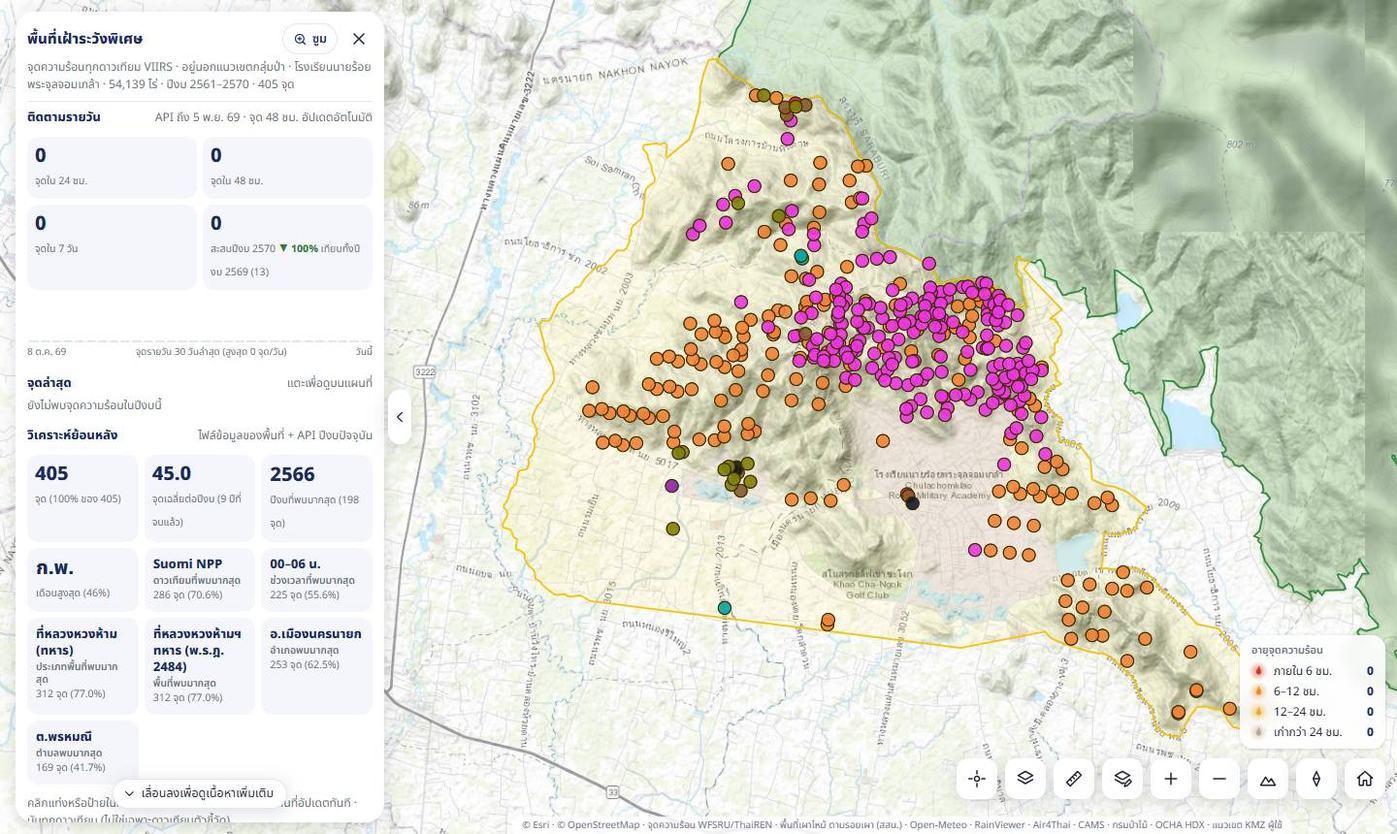
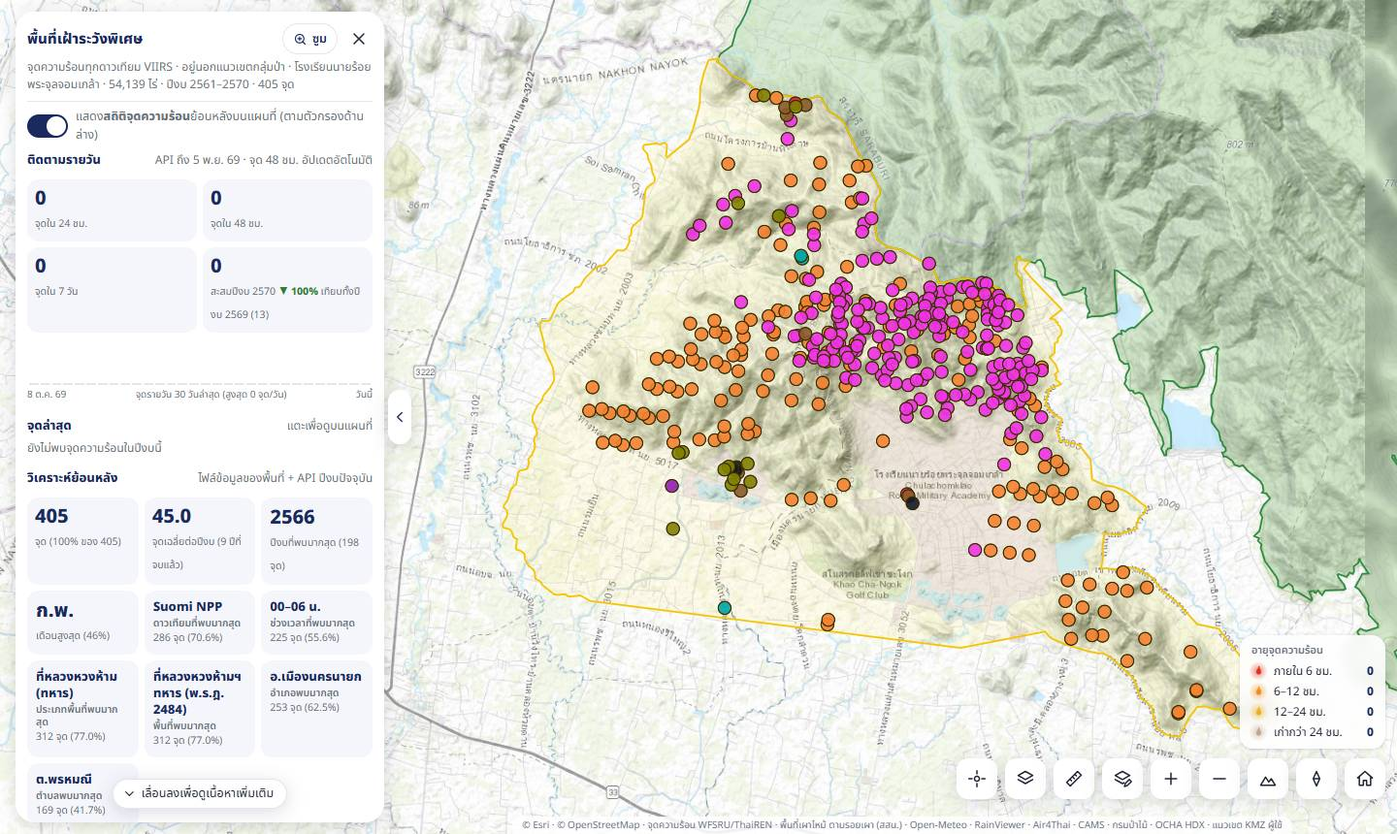
การ์ดพื้นที่เฝ้าระวังพิเศษ: สวิตช์แสดงสถิติจุดความร้อนย้อนหลังบนแผนที่ (ค่าเริ่มต้นปิด) + คู่มือ/ภาพ

diff --git a/manual/index.html b/manual/index.html
@@ -674,9 +674,10 @@ mark{background:#ffe58a;border-radius:3px}
 <div class="box note"><b>วิธีคิด:</b> วันที่ใช้ช่อง วัน/เดือน/ปี · พิกัด UTM ไม่มีโซนในต้นฉบับ — E มากกว่า 500,000 = โซน 47 นอกนั้นโซน 48 · พิกัดที่ตัวเลขขาด/เกิน 1 หลัก (12 ครั้ง) ลองตัด/แทรกตัวเลขทีละหลัก แก้ให้เฉพาะเมื่อผลตกในตำบลที่รายงาน (5 ครั้ง) ที่เหลือ 7 ครั้งนับในสถิติแต่ไม่แสดงบนแผนที่ · พื้นที่อนุรักษ์หาจากพิกัด สถานีฯ ใช้ช่อง "ดำเนินการโดย" สบอ. ตามจังหวัด · เวลาเข้าดับ/เสร็จสิ้นใช้เฉพาะเวลา ตัดค่าที่เข้าดับก่อนรับแจ้งหรือนานเกิน 12 ชม. (เสร็จหลังเที่ยงคืนนับข้ามวัน) · <b>พบจุดความร้อน</b> = มีจุด Suomi NPP ของกรมอุทยานฯ ห่างไม่เกิน 1 กม. ภายใน ±1 วันของวันรับแจ้ง (พบราว 1 ใน 4 ของครั้งที่มีพิกัด — ไฟเล็กหรือดับก่อนดาวเทียมผ่านมักไม่ถูกตรวจพบ)</div>
 </div></div>
 <h3 id="stats-wa">การ์ดพื้นที่เฝ้าระวังพิเศษ</h3>
-<p>เปิดจากปุ่มเมนูหลัก <span class="btnl"><svg class="i" viewBox="0 0 24 24"><path d="M12 3l8 3.5v5.5c0 4.5-3.5 7.5-8 9-4.5-1.5-8-4.5-8-9V6.5z" style="fill:#ffd000;stroke:#6b5200"/><circle cx="12" cy="11.5" r="2.6" style="fill:#fff;stroke:#6b5200"/></svg> พื้นที่เฝ้าระวังพิเศษ</span> (แถวที่ 3) — ใช้ช่องเดียวกับการ์ดสถิติแต่ไม่มีแถบแท็บ — ติดตามรายวันและวิเคราะห์จุดความร้อนย้อนหลังของ<b>โรงเรียนนายร้อยพระจุลจอมเกล้า</b> (พื้นที่นอกแนวเขตกลุ่มป่า) เปิดได้จากปุ่มเมนูหลัก ป้ายเหลืองในการ์ดจุดความร้อน หรือลิงก์ในแผงชั้นข้อมูล (กดปุ่มเมนูซ้ำ = ปิด) · เปิดการ์ดนี้แล้วแผนที่แสดงจุดย้อนหลังของพื้นที่แทนจุดของกลุ่มป่า</p>
+<p>เปิดจากปุ่มเมนูหลัก <span class="btnl"><svg class="i" viewBox="0 0 24 24"><path d="M12 3l8 3.5v5.5c0 4.5-3.5 7.5-8 9-4.5-1.5-8-4.5-8-9V6.5z" style="fill:#ffd000;stroke:#6b5200"/><circle cx="12" cy="11.5" r="2.6" style="fill:#fff;stroke:#6b5200"/></svg> พื้นที่เฝ้าระวังพิเศษ</span> (แถวที่ 3) — ใช้ช่องเดียวกับการ์ดสถิติแต่ไม่มีแถบแท็บ — ติดตามรายวันและวิเคราะห์จุดความร้อนย้อนหลังของ<b>โรงเรียนนายร้อยพระจุลจอมเกล้า</b> (พื้นที่นอกแนวเขตกลุ่มป่า) เปิดได้จากปุ่มเมนูหลัก ป้ายเหลืองในการ์ดจุดความร้อน หรือลิงก์ในแผงชั้นข้อมูล (กดปุ่มเมนูซ้ำ = ปิด)เปิดการ์ดนี้แล้วแผนที่ซูมไปที่พื้นที่ (จุดย้อนหลังแสดงเมื่อเปิดสวิตช์ในการ์ด)</p>
 <figure><img src="img/stats_wa.jpg" width="1440" height="860" alt="การ์ดพื้นที่เฝ้าระวังพิเศษ" loading="lazy"><figcaption>การ์ดพื้นที่เฝ้าระวังพิเศษ: ติดตามรายวัน การ์ดตัวเลข และจุดย้อนหลังในแนวเขตพื้นที่</figcaption></figure>
 <ul>
+ <li><b>สวิตช์ "แสดงสถิติจุดความร้อนย้อนหลังบนแผนที่"</b> บนสุดของการ์ด — <b>ค่าเริ่มต้นปิด</b> (แผนที่แสดงแค่แนวเขตและจุด 48 ชม.) เปิดแล้วจุดย้อนหลังตามตัวกรองขึ้นบนแผนที่ในรูปแบบที่เลือกใน "แสดงบนแผนที่"</li>
  <li><b>ติดตามรายวัน</b> — จุดใน 24 ชม. · 48 ชม. · 7 วัน · สะสมปีงบนี้ ▲▼% เทียบทั้งปีงบก่อน · แท่งจำนวนจุดรายวัน 30 วันล่าสุด · <b>จุดล่าสุด</b> 6 จุด (แตะ = ซูม/เปิดรายละเอียด; ป้าย "48 ชม." = จุดสด) · บรรทัดบนบอกวันที่ข้อมูลสะสมจาก API ล่าสุด</li>
  <li><b>วิเคราะห์ย้อนหลัง</b> รูปแบบเดียวกับแท็บจุดความร้อน: การ์ดตัวเลข (จำนวนจุด เฉลี่ยต่อปีงบที่จบแล้ว ปีงบและเดือนที่พบมาก ดาวเทียม ช่วงเวลา ประเภทพื้นที่ พื้นที่ อำเภอ ตำบลที่พบมาก — คลิกเพื่อกรอง) · กราฟปีงบ (เส้นประ = เฉลี่ย) · เดือน · ดาวเทียม · ช่วงเวลาที่ตรวจพบ · ประเภทพื้นที่ (ที่หลวงหวงห้าม (ทหาร) / ป่าชุมชน / อุทยานแห่งชาติ / พื้นที่อื่น) · ชื่อพื้นที่ · ในหรือนอกพื้นที่ป่า · อำเภอ · ตำบล · แหล่งข้อมูล</li>
  <li><b>แสดงบนแผนที่</b> — จุด / Cluster / ความหนาแน่น สีตามปีงบ / ดาวเทียม / ประเภทพื้นที่ (ขอบน้ำตาล) · ปุ่ม <span class="btnl">ซูม</span> / <span class="btnl">รีเซ็ต</span> ทำงานกับการ์ดนี้</li>

diff --git a/index.html b/index.html
@@ -564,6 +564,7 @@ hr.l{border:0;border-top:1px solid var(--line);margin:10px 0}
   </div>
   <div class="wa-only" id="wab">
   <select id="w-sel" hidden aria-label="เลือกพื้นที่เฝ้าระวัง"></select>
+  <div class="dmr"><button class="sw" id="w-sp" role="switch" aria-label="แสดงสถิติจุดความร้อนย้อนหลังบนแผนที่"></button><span>แสดง<b>สถิติจุดความร้อน</b>ย้อนหลังบนแผนที่ (ตามตัวกรองด้านล่าง)</span></div>
   <div class="hq" style="margin-top:6px"><b>ติดตามรายวัน</b><span class="sm" id="w-upd"></span></div>
   <div class="kp w2" id="w-lv"></div>
   <div id="w-d30"></div>
@@ -933,7 +934,7 @@ const areaHtml=g=>{let s='';if(g.cons)s+=`<b>${esc(g.cons.properties.name)}</b><
  return s||'<span class="sm">อยู่นอกพื้นที่อนุรักษ์และพื้นที่รับผิดชอบไฟป่าตามไฟล์แนวเขต</span><br>'};
 
 /* ---------- สถานะ + จำค่าที่ผู้ใช้เลือก ---------- */
-let S={base:'natural',img:'google',d3:false,hot:true,prov:false,cons:true,resp:false,stn:false,wpt:false,rgr:false,fbs:false,sats:{SNPP:true,NOAA20:true,NOAA21:true},xdy:true,wch:true,wst:false,demo:false,water:true,road:true,wind:false,pm:false,dry:false,wx:false,rad:false,wyl:false,wyo:'wind',wyop:60,hist:false,xt:false,burn:false,fuel:false,ftype:false,amp:false,tam:false,hcl:false,hgp:false,har:false,hcp:'7',rep:false,rpm:2,hcd:1,hcg:2,hcr:200};
+let S={base:'natural',img:'google',d3:false,hot:true,prov:false,cons:true,resp:false,stn:false,wpt:false,rgr:false,fbs:false,sats:{SNPP:true,NOAA20:true,NOAA21:true},xdy:true,wch:true,wst:false,wsp:false,demo:false,water:true,road:true,wind:false,pm:false,dry:false,wx:false,rad:false,wyl:false,wyo:'wind',wyop:60,hist:false,xt:false,burn:false,fuel:false,ftype:false,amp:false,tam:false,hcl:false,hgp:false,har:false,hcp:'7',rep:false,rpm:2,hcd:1,hcg:2,hcr:200};
 try{Object.assign(S,JSON.parse(localStorage.getItem('fm-v1')||'{}'))}catch(e){}S.demo=false;S.wst=false;if(S.base==='road')S.base='detail';
 const toast=(m,fn,ms)=>{const t=$('#toast');t.textContent=m;t.classList.add('show');t.classList.toggle('act',!!fn);t.onclick=fn?()=>{t.classList.remove('show','act');fn()}:null;
  clearTimeout(toast.t);toast.t=setTimeout(()=>t.classList.remove('show','act'),ms||2200)}; // fn = แตะป้ายแล้วทำ (ป้ายค้างนานขึ้น)
@@ -2876,7 +2877,7 @@ function setupWT(){if(!WAR.length)return;WFC=wFC();const bf=map.getLayer('hot-gl
  map.addLayer({id:'wlv-icon',type:'symbol',source:'wlv',layout:{visibility:'none','icon-image':['concat','f-',['get','g']],'icon-size':['interpolate',['linear'],['zoom'],6,.55,12,.9],'icon-allow-overlap':true},paint:{'icon-opacity':['match',['get','g'],'b',.6,1]}});
  LW()}
 function LW(){if(!WAR.length)return;const set=(id,b)=>map.getLayer(id)&&map.setLayoutProperty(id,'visibility',b?'visible':'none'),on=S.wch||S.wst;
- ['wch-f','wch-l'].forEach(id=>set(id,on));set('wt-h',S.wst&&WM.mode==='heat');set('wt-c',S.wst&&WM.mode==='pt');['wtc-cl','wtc-n','wtc-p'].forEach(id=>set(id,S.wst&&WM.mode==='cl'));
+ ['wch-f','wch-l'].forEach(id=>set(id,on));const sp=S.wst&&S.wsp;set('wt-h',sp&&WM.mode==='heat');set('wt-c',sp&&WM.mode==='pt');['wtc-cl','wtc-n','wtc-p'].forEach(id=>set(id,sp&&WM.mode==='cl'));/* จุดย้อนหลังแสดงเมื่อเปิดสวิตช์ในการ์ด (S.wsp ค่าเริ่มต้นปิด) */
  set('wlv-glow',S.hot&&on&&!S.d3);set('wlv-icon',S.hot&&on&&!S.d3);
  const b=document.getElementById('wchbox');if(b)b.hidden=!S.wch;wchInfo()}
 /* บรรทัดสรุปในแผงชั้นข้อมูล + ป้ายในการ์ดจุดความร้อน (ติดตามรายวัน) */
@@ -2911,6 +2912,7 @@ function wtPopup(r){if(!r)return;if(r.src===2&&r.h){MOVED=true;return openDetail
 $('#wab').addEventListener('click',e=>{const c=e.target.closest('[data-wi]');if(c){const r=WR[+c.dataset.wi];if(!r)return;MOVED=true;if(r.src===2&&r.h)return openDetail(r.h);map.flyTo({center:[r.lo,r.la],zoom:13,duration:dur(1200)});map.once('moveend',()=>wtPopup(r));return}
  const b=e.target.closest('[data-wk]');if(!b)return;const k=b.dataset.wk,v=Number(b.dataset.wv);WFL[k].has(v)?WFL[k].delete(v):WFL[k].add(v);wtRender()});
 $$('#w-md button').forEach(b=>b.onclick=()=>{WM.mode=b.dataset.v;wtRender()});$$('#w-co button').forEach(b=>b.onclick=()=>{WM.color=b.dataset.v;wtRender()});
+{const b=$('#w-sp'),u=()=>b.setAttribute('aria-checked',!!S.wsp);u();b.onclick=e=>{e.stopPropagation();S.wsp=!S.wsp;u();LW()}} /* สวิตช์สถิติจุดความร้อนบนแผนที่ (ไม่ใช้ data-k — #hcard จับ data-k เป็นตัวกรองสถิติ) */
 $('#w-sel').onchange=e=>{WSEL=e.target.value;wDef();wtRender();wtFit()};
 $('#wch-z').onclick=wchZoom;$('#wch-o').onclick=()=>hOpen(false,'wa');$('#p-wch').onclick=()=>hOpen(false,'wa');
 /* ตาราง · CSV · รายงาน PDF (ตามตัวกรอง WFL) */

diff --git a/CLAUDE.md b/CLAUDE.md
@@ -16,7 +16,7 @@
   - `id="wdata"` สร้างโดย `node scripts/import_watch.js <แนวเขต.kmz> <จุด.kmz> [--fy 2561-2569] [--id jpr --name … --short …]` (ห้ามแก้มือ; สำเนา `data/watch.json`): `{areas:[{id,n,s,rai,src,fy:[2561,2569] (จากชื่อไฟล์),bb,c:MultiPolygon}], sat,tm("ต|อ|จ"),nm,ty, r:[[day,hhmm,la5,lo5,sat,tm,nm,ty,forest,area,ลำด]]}` · ไฟล์ต้นฉบับ**ทุกดาวเทียม** S/N20/N21/N ("N" ไม่ระบุดวง) ปีงบ 2561 2 / 2563 177 / 2566 198 (S 100 + N20 98) / 2569 13 · ปีงบ 2562 ไม่มีจุด · ทุกจุดอยู่ในแนวเขต · ช่วงปีงบจากชื่อไฟล์รับทั้ง "2561 to 2569" และ "61ถึง69"
   - `id="wadata"` สร้างโดย sync_hotspots (`watchAt` ใน `scripts/lib/area.js` + firms.js): `{v,upd,from,to,ids,sat,cf,tm, r:[[day,hhmm,la5,lo5,sat,cf,tm,area(,1=FIRMS)]]}` · ที่เก็บเดียวกับ adata (`r.wa`; adata กรอง `r.ar`) · `store.wdays` = วันที่ดึงพร้อมตัวกรองพื้นที่เฝ้าระวัง — ครั้งแรก/เพิ่มพื้นที่ใหม่ (ลบ wdays) ดึงย้อนหลังทั้งหมด ~10 นาที แต่**วันเก่ารับเฉพาะจุดพื้นที่เฝ้าระวัง และไม่เติม FIRMS** (ไม่ให้ adata ย้อนหลังเปลี่ยน — ตรวจแล้ว adata 482 เท่าเดิม) · ปีงบ 2569 API 17 จุด (ไฟล์ 13)
   - build_site → `_site/watch.json` {features 48 ชม. (`_w`), sum:{fy, areas[{fy (ทุกดวง), prv, pfull, m, pm, sat, tm, h24, h48, last, src}]}} · **live.json ไม่มีจุดพื้นที่เฝ้าระวัง** (Worker/การ์ดเดิมนับจาก live.json) · ปีงบ ≤ ปีสุดท้ายของไฟล์ = ไฟล์, หลังจากนั้น = API + 48 ชม.
-  - **แก้ตามผู้ใช้ 6 พ.ย. 69 รอบ 2:** การ์ดนี้เปิดจาก**ปุ่มเมนูหลัก `#bWch`** (แถว 3 มี 3 ปุ่ม `.b3` ไอคอนบน ข้อความล่าง: พื้นที่เฝ้าระวังพิเศษ | ย้อนดูการลามของไฟ | คู่มือ — `.btns` กริด 6 คอลัมน์ย่อย) ไม่ใช่แท็บในการ์ดสถิติแล้ว (โหมด wa ซ่อน `#h-tab`; bStat จากโหมด wa = สลับไปแท็บจุดความร้อน, กดปุ่มเดิมซ้ำ = ปิด) · ชื่อหมวดชั้นข้อมูล "พื้นที่เฝ้าระวังพิเศษ" · เส้นแนวเขตสีเหลือง #f5c400 กว้าง 1.8 เท่าเส้นพื้นที่อนุรักษ์ ไม่มีเส้นประ/ขอบเข้ม (ลบ wch-c) · `#w-ins` ใช้ CSS เดียวกับ #h-ins (เดิมตัวอักษรใหญ่) · **เมนู "ความสำคัญ" เปลี่ยนชื่อเป็น "ข้อมูลพื้นฐาน"** (หัวหน้า #kb-t "ข้อมูลพื้นฐานของผืนป่า"; การ์ดภายในยังชื่อ ความสำคัญของพื้นที่) — คู่มือแก้ตามแล้ว + ถ่ายภาพ overview/mobile/know/sw_wch/stats_wa ใหม่
+  - **แก้ตามผู้ใช้ 6 พ.ย. 69 รอบ 2:** การ์ดนี้เปิดจาก**ปุ่มเมนูหลัก `#bWch`** (แถว 3 มี 3 ปุ่ม `.b3` ไอคอนบน ข้อความล่าง: พื้นที่เฝ้าระวังพิเศษ | ย้อนดูการลามของไฟ | คู่มือ — `.btns` กริด 6 คอลัมน์ย่อย) ไม่ใช่แท็บในการ์ดสถิติแล้ว (โหมด wa ซ่อน `#h-tab`; bStat จากโหมด wa = สลับไปแท็บจุดความร้อน, กดปุ่มเดิมซ้ำ = ปิด) · **สวิตช์ `#w-sp` "แสดงสถิติจุดความร้อนย้อนหลังบนแผนที่"** บนสุดของการ์ด `S.wsp` ค่าเริ่มต้นปิด (ผู้ใช้ขอ 6 พ.ย. 69) → LW แสดงชั้น wt-*/wtc-* เมื่อ S.wst&&S.wsp · ห้ามใช้ data-k ในการ์ด (#hcard จับ data-k เป็นตัวกรองสถิติ HF → error) · ชื่อหมวดชั้นข้อมูล "พื้นที่เฝ้าระวังพิเศษ" · เส้นแนวเขตสีเหลือง #f5c400 กว้าง 1.8 เท่าเส้นพื้นที่อนุรักษ์ ไม่มีเส้นประ/ขอบเข้ม (ลบ wch-c) · `#w-ins` ใช้ CSS เดียวกับ #h-ins (เดิมตัวอักษรใหญ่) · **เมนู "ความสำคัญ" เปลี่ยนชื่อเป็น "ข้อมูลพื้นฐาน"** (หัวหน้า #kb-t "ข้อมูลพื้นฐานของผืนป่า"; การ์ดภายในยังชื่อ ความสำคัญของพื้นที่) — คู่มือแก้ตามแล้ว + ถ่ายภาพ overview/mobile/know/sw_wch/stats_wa ใหม่
   - หน้าเว็บ: หมวด "พื้นที่เฝ้าระวังพิเศษ" ในแผงชั้นข้อมูล สวิตช์ `S.wch` (**ค่าเริ่มต้นเปิด**) + `#wchbox` · ชั้น `wch-f/l` · จุด 48 ชม. `WLAST` (liveList.w / liveFile.w จาก watch.json) ชั้น `wlv-glow/icon` คลิก = openDetail (บรรทัด "พื้นที่เฝ้าระวังพิเศษ" ใน #d-pa) · นับในกล่องอายุจุด · ป้ายเหลือง `#p-wch` ในการ์ดจุดความร้อน · ป๊อปอัปแตะแผนที่ `wchHtml` · แท็บที่ 3 ของการ์ดสถิติ `HTAB='wa'` (`#hcard.wam`, `.wa-only`, `#wab`, `S.wst` ชั้น `wt-*`/`wtc-*`) โมดูลต่อจากสถิติการดับไฟป่า: `WWG`/`WAP`/`WAR` (ชื่อ WG ชนกับตารางลม), `wBuild`→`WR` (src 0 ไฟล์/1 API/2 48 ชม.), ตัวกรอง `WFL`, `wLive` ติดตามรายวัน (24/48 ชม./7 วัน/สะสมปีงบ + แท่ง 30 วัน + จุดล่าสุด), `wKpi`/`wInsights` (เทียบเฉพาะปีงบที่จบแล้ว + ปีนี้เทียบช่วงเดียวกัน), `openWTable`/`wCSV`/`buildWReport` · ลิงก์ตรง `?wa=jpr` (+`&pts=`, `hsWA` หาใน WLAST/WAP) · ตรวจ Chrome headless 1440/390 ไม่มี error
   - LINE: `watchCard()` ใน worker (1 ใบ/พื้นที่) → line_notify ส่งเป็นข้อความที่ 2 ใน push เดียวกัน (โควตาไม่เพิ่ม) + สรุปประจำวัน · `--watch` · คำสั่ง "เฝ้าระวัง"/"จปร" + "สรุป" แนบการ์ด (**ผู้ใช้ต้องวางโค้ด Worker ใหม่**) · Telegram: ข้อความแยก `watchMsg` + หัวข้อในสรุปประจำวัน · `--watch` · line-test/tg-test มีตัวเลือก watch · ทดสอบกับ LINE/Telegram API จำลองแล้ว (ยังไม่ส่งจริง)
 - **คู่มือการใช้งาน** `manual/index.html` (ผู้ใช้ขอ 4 พ.ย. 69: แนะนำทุกส่วนของหน้าเว็บ เมนู ฟังก์ชัน วิธีใช้ ที่มา อ้างอิง วิธีคิด) — หน้า HTML แยก (Noto Sans Thai, สารบัญติดซ้าย + ค้นหากรองหัวข้อ, มือถือสารบัญพับ, พิมพ์ได้) 23 หมวด: ส่วนประกอบหน้าจอ (ภาพมีหมายเลขกำกับ `.ann i` ตำแหน่งเป็น % จากภาพ 1440×860) · ปุ่มเมนู · การ์ด · แผนที่ · ปุ่มควบคุม · ชั้นข้อมูลทุกชั้น · แผงรายละเอียด/โมเดลไฟ · สถิติ · เล่นย้อน · ตาราง/CSV/PDF · Windy · ความสำคัญ · วัด · วาด · ลิงก์ตรง · LINE/Telegram · ข้อมูลและวิธีคิด (สมการจริงจากโค้ด: EMC/Rothermel/Anderson/Byram/ตาราง FUEL/CBI/VPD/AQI) · แหล่งข้อมูล+อ้างอิง · ข้อจำกัด · FAQ · คำศัพท์ · ผู้ดูแลระบบ · ภาพ `manual/img/*.jpg` 40 ภาพ (~4.5 MB): ภาพหลัก/การ์ด/มือถือเปิดจุดความร้อนตัวอย่าง (ผู้ใช้ขอ 4 พ.ย. 69) + **ภาพรายสวิตช์ทุกแถวในแผงชั้นข้อมูล** `sw_*.jpg` (กล่อง `.swd` คำอธิบาย/วิธีอ่าน/ใช้ทำอะไร) + แผนที่ฐาน 5 แบบ `base_*.jpg` · รายการภาพสร้างด้วย `node scripts/manual_shots_gen.js` (ภาพรายสวิตช์ + manual_shots_base.json = ภาพอื่น) แล้วถ่ายด้วย `node scripts/manual_shots.mjs manual/img scripts/manual_shots.json` (Chrome headless ~12 นาที, ต้องเปิด serve.js พอร์ต 8000; `clipSel` ตัดภาพตาม selector; ลบ boxes.json ที่ได้ทิ้ง — ใช้คำนวณตำแหน่งหมายเลขกำกับ %) · **ไอคอนในคู่มือ = SVG จริงจาก index.html** (ปุ่มควบคุมในกรอบ `.cb`, ปุ่มเมนูใน `.btnl`, หัวข้อสวิตช์) — ผู้ใช้ไม่เอาอักขระแทน (⌖ ◇ 📏) · ถ้าเปลี่ยนไอคอนในแอปต้องแก้ในคู่มือด้วย · ปุ่ม `#bMan` ในแผงซ้าย (เดิม data-soon) = `<a target=_blank href=manual/index.html>` · build_site คัดลอก `manual/` ไป _site · **สารบัญไฮไลต์หัวข้อจากตำแหน่งจริง** (`spy` ตอน scroll: หัวข้อสุดท้ายที่ขอบบน ≤80 px, ท้ายหน้าสุด = หัวข้อที่เห็น <60% จอ; กดลิงก์ = `pin` หัวข้อที่กดจนผู้ใช้ wheel/แตะ/กดคีย์/เมาส์ — เดิมใช้ IntersectionObserver ตอนเลื่อนขึ้นไฮไลต์หัวข้อก่อนหน้า 1 ข้อ และข้อ 25 ไม่เคยไฮไลต์ ผู้ใช้แจ้ง 5 พ.ย. 69; ตรวจ headless คลิกครบ 46 ลิงก์ถูกทุกครั้ง) แล้วเลื่อนกล่องสารบัญเอง (`tocShow` ตั้ง scrollTop) — ห้ามใช้ scrollIntoView** (ผู้ใช้แจ้ง 5 พ.ย. 69: กดสารบัญเลื่อนขึ้น/กลับบนสุดแล้วหยุดกลางทาง เพราะ scrollIntoView หยุดการเลื่อนแบบนุ่มของหน้า; ตรวจ headless แล้วทุกหัวข้อหยุดตรง 16 px) · **แก้ฟีเจอร์ในหน้าเว็บแล้วควรแก้คู่มือตาม** (ตัวเลข/สูตรในหมวดวิธีคิดคัดจากโค้ด ณ 4 พ.ย. 69)
